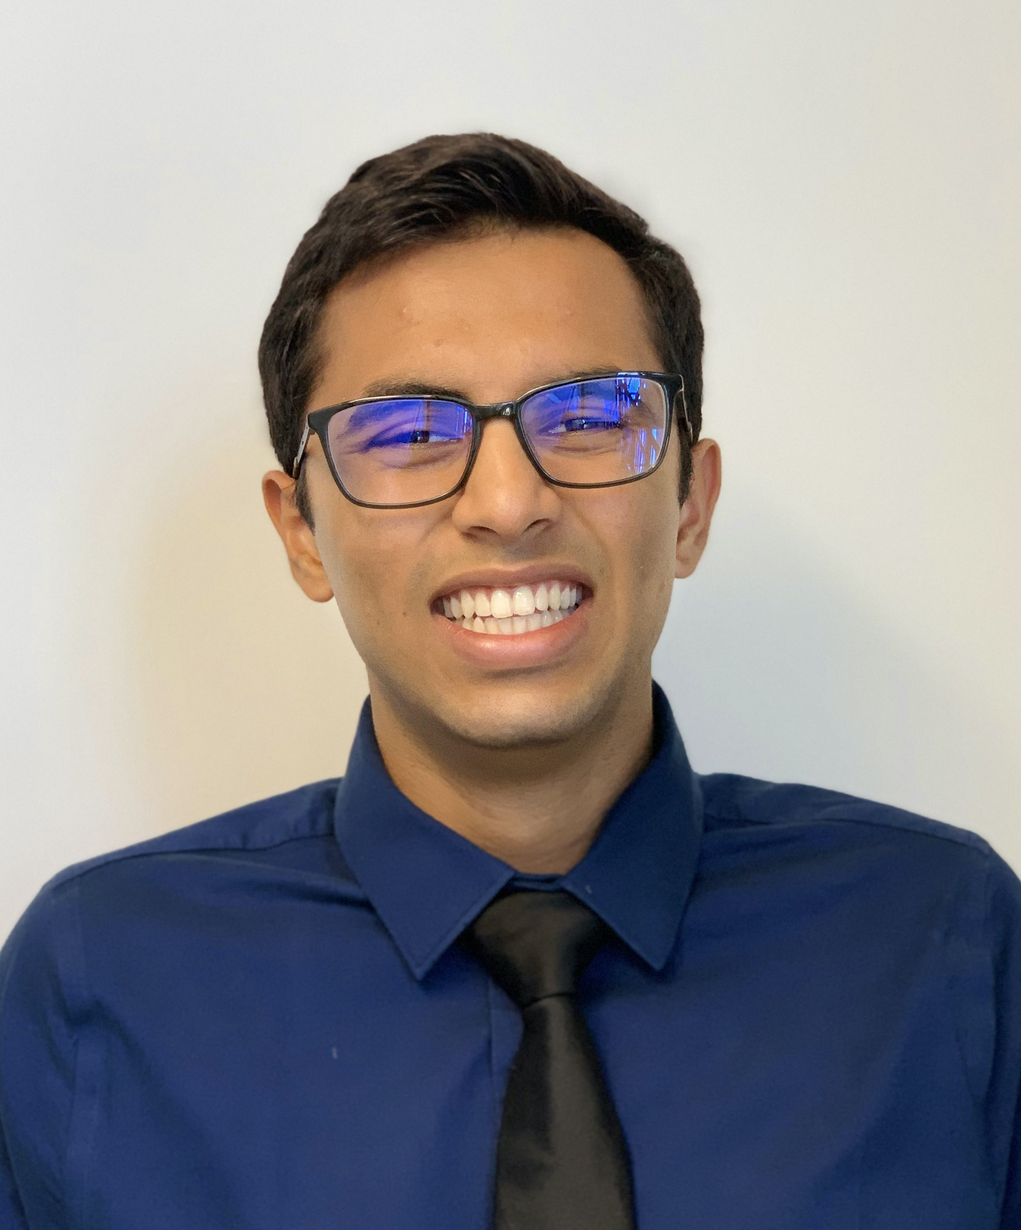
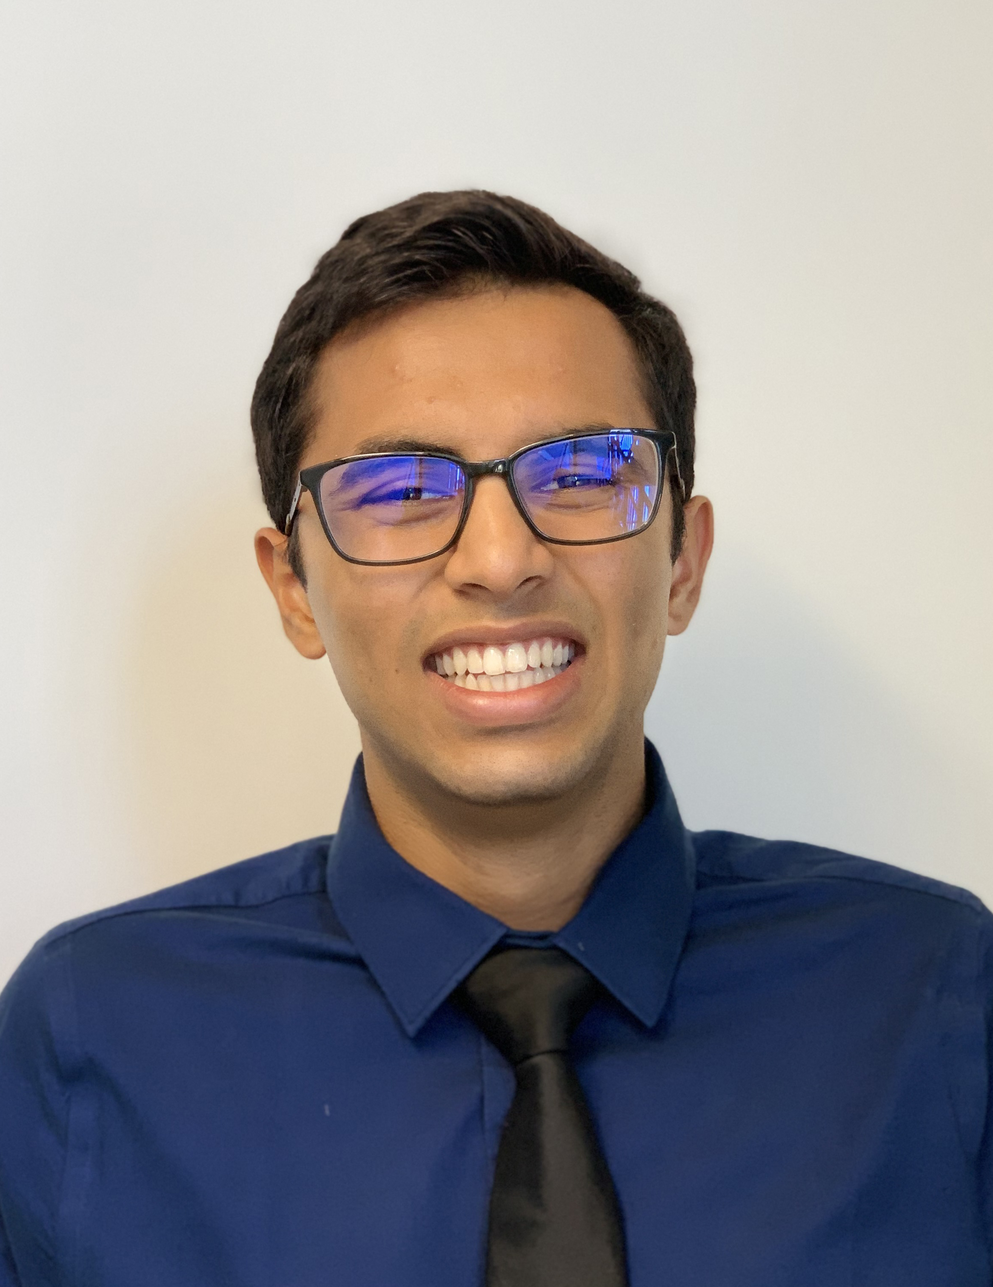
update leadership profiles, update apply page, minor edits to text

diff --git a/about.html b/about.html
@@ -149,131 +149,198 @@
                             <span>Leadership</span>
                             <!-- Row One-->
                             <div class="row justify-content-around mb-15">
-                                <div class="col-xl-3 col-lg-5 col-md-6 col-sm-6 item">
+                                <div class="col-xl-3 col-lg-5 col-md-6 col-sm-6">
                                     <div class="section-tittle container">
-                                        <img src="assets/img/profiles/aadhrik.JPG" style="width: 100%" class="section-tittle image" alt="Avatar">
+                                        <img src="assets/img/profiles/vignesh.jpg" style="width: 100%" class="section-tittle image" alt="Avatar">
                                         <div class="section-tittle middle">
-                                            <a href="https://www.linkedin.com/in/aadhrik/" target="blank">
-                                            <img src="assets/img/icon/linkedin_icon.png" alt="">
-                                            </a>
+                                            <div class="container-fluid">
+                                                <a href="https://www.linkedin.com/in/vsivapra/" target="blank">
+                                                    <img src="assets/img/icon/linkedin_icon.png" alt="">
+                                                </a>
+                                                <a href="mailto: vignesh@product.berkeley.edu">
+                                                    <img src="assets/img/icon/mail.png" alt="">
+                                                </a>
+                                            </div>
                                         </div>
                                     </div>
-                                    <h4>Aadhrik Kuila</h4>
-                                    <p>President</p>
+                                    <h4>Vignesh Siva</h4>
+                                    <p>Project Manager</p>
                                 </div>
                                 <div class="col-xl-3 col-lg-5 col-md-6 col-sm-6">
                                     <div class="section-tittle container">
-                                        <img src="assets/img/profiles/brandon.jpg" style="width: 100%" class="section-tittle image" alt="Avatar">
+                                        <img src="assets/img/profiles/kayden.jpg" style="width: 100%" class="section-tittle image" alt="Avatar">
                                         <div class="section-tittle middle">
-                                            <a href="https://www.linkedin.com/in/brandonqin/" target="blank">
-                                                <img src="assets/img/icon/linkedin_icon.png" alt="">
-                                            </a>
+                                            <div class="container-fluid">
+                                                <a href="https://www.linkedin.com/in/kayden-fu-0712/" target="blank">
+                                                    <img src="assets/img/icon/linkedin_icon.png" alt="">
+                                                </a>
+                                                <a href="mailto: kayden@product.berkeley.edu">
+                                                    <img src="assets/img/icon/mail.png" alt="">
+                                                </a>
+                                            </div>
                                         </div>
                                     </div>
-                                    <h4>Brandon Qin</h4>
-                                    <p>External Vice President</p>
+                                    <h4>Kayden Fu</h4>
+                                    <p>Fellowship Lead</p>
                                 </div>
                                 <div class="col-xl-3 col-lg-5 col-md-6 col-sm-6">
                                     <div class="section-tittle container">
-                                        <img src="assets/img/profiles/ananya.JPG" style="width: 100%" class="section-tittle image" alt="Avatar">
+                                        <img src="assets/img/profiles/sahil.png" style="width: 100%" class="section-tittle image" alt="Avatar">
                                         <div class="section-tittle middle">
-                                            <a href="http://linkedin.com/in/ananyagupta01" target="blank">
-                                                <img src="assets/img/icon/linkedin_icon.png" alt="">
-                                            </a>
+                                            <div class="container-fluid">
+                                                <a href="https://www.linkedin.com/in/sahil-mehta-412783190/" target="blank">
+                                                    <img src="assets/img/icon/linkedin_icon.png" alt="">
+                                                </a>
+                                                <a href="mailto: sahilmehta@product.berkeley.edu">
+                                                    <img src="assets/img/icon/mail.png" alt="">
+                                                </a>
+                                            </div>
                                         </div>
                                     </div>
-                                    <h4>Ananya Gupta</h4>
-                                    <p>Internal Vice President</p>
+                                    <h4>Sahil Mehta</h4>
+                                    <p>Vice President of Operations</p>
                                 </div>
                                 <div class="col-xl-3 col-lg-5 col-md-6 col-sm-6">
                                     <div class="section-tittle container">
-                                        <img src="assets/img/profiles/tyler.JPG" style="width: 100%" class="section-tittle image" alt="Avatar">
+                                        <img src="assets/img/profiles/katherine.jpg" style="width: 100%" class="section-tittle image" alt="Avatar">
                                         <div class="section-tittle middle">
-                                            <a href="https://www.linkedin.com/in/tyler-mcnierney/" target="blank">
-                                                <img src="assets/img/icon/linkedin_icon.png" alt="">
-                                            </a>
+                                            <div class="container-fluid">
+                                                <a href="https://www.linkedin.com/in/katherine-gan/" target="blank">
+                                                    <img src="assets/img/icon/linkedin_icon.png" alt="">
+                                                </a>
+                                                <a href="mailto: katherine@product.berkeley.edu">
+                                                    <img src="assets/img/icon/mail.png" alt="">
+                                                </a>
+                                            </div>
                                         </div>
                                     </div>
-                                    <h4>Tyler McNierney</h4>
-                                    <p>Head of Growth</p>
+                                    <h4>Katherine Gan</h4>
+                                    <p>Fellowship Mentor</p>
                                 </div>
                             </div>
                             <!-- Row Two-->
                             <div class="row justify-content-around mb-15">
                                 <div class="col-xl-3 col-lg-5 col-md-6 col-sm-6">
                                     <div class="section-tittle container">
-                                        <img src="assets/img/profiles/atharva.jpg" style="width: 100%" class="section-tittle image" alt="Avatar">
+                                        <img src="assets/img/profiles/trinity.jpg" style="width: 100%" class="section-tittle image" alt="Avatar">
                                         <div class="section-tittle middle">
-                                            <a href="https://www.linkedin.com/in/atharvamehendale/" target="blank">
-                                                <img src="assets/img/icon/linkedin_icon.png" alt="">
-                                            </a>
+                                            <div class="container-fluid">
+                                                <a href="https://www.linkedin.com/in/trinityhuynh/" target="blank">
+                                                    <img src="assets/img/icon/linkedin_icon.png" alt="">
+                                                </a>
+                                                <a href="mailto: trinity@product.berkeley.edu">
+                                                    <img src="assets/img/icon/mail.png" alt="">
+                                                </a>
+                                            </div>
                                         </div>
                                     </div>
-                                    <h4>Atharva Mehendale</h4>
-                                    <p>Head of Projects</p>
+                                    <h4>Trinity Huynh</h4>
+                                    <p>Fellowship Mentor</p>
+                                </div>
+                                <div class="col-xl-3 col-lg-5 col-md-6 col-sm-6">
+                                    <div class="section-tittle container">
+                                        <img src="assets/img/profiles/advait.jpg" style="width: 100%" class="section-tittle image" alt="Avatar">
+                                        <div class="section-tittle middle">
+                                            <div class="container-fluid">
+                                                <a href="https://www.linkedin.com/in/advaitumarathe/" target="blank">
+                                                    <img src="assets/img/icon/linkedin_icon.png" alt="">
+                                                </a>
+                                                <a href="mailto: advait@product.berkeley.edu">
+                                                    <img src="assets/img/icon/mail.png" alt="">
+                                                </a>
+                                            </div>
+                                        </div>
+                                    </div>
+                                    <h4>Advait Marathe</h4>
+                                    <p>External Vice President</p>
+                                </div>
+                                <div class="col-xl-3 col-lg-5 col-md-6 col-sm-6">
+                                    <div class="section-tittle container">
+                                        <img src="assets/img/profiles/tia.jpg" style="width: 100%" class="section-tittle image" alt="Avatar">
+                                        <div class="section-tittle middle">
+                                            <div class="container-fluid">
+                                                <a href="https://www.linkedin.com/in/tiatyngchang/" target="blank">
+                                                    <img src="assets/img/icon/linkedin_icon.png" alt="">
+                                                </a>
+                                                <a href="mailto: tia@product.berkeley.edu">
+                                                    <img src="assets/img/icon/mail.png" alt="">
+                                                </a>
+                                            </div>
+                                        </div>
+                                    </div>
+                                    <h4>Tia Chang</h4>
+                                    <p>Project Manager</p>
+                                </div>
+                                <div class="col-xl-3 col-lg-5 col-md-6 col-sm-6">
+                                    <div class="section-tittle container">
+                                        <img src="assets/img/profiles/neal.jpg" style="width: 100%" class="section-tittle image" alt="Avatar">
+                                        <div class="section-tittle middle">
+                                            <div class="container-fluid">
+                                                <a href="https://www.linkedin.com/in/neal-kothari/" target="blank">
+                                                    <img src="assets/img/icon/linkedin_icon.png" alt="">
+                                                </a>
+                                                <a href="mailto: neal@product.berkeley.edu">
+                                                    <img src="assets/img/icon/mail.png" alt="">
+                                                </a>
+                                            </div>
+                                        </div>
+                                    </div>
+                                    <h4>Neal Kothari</h4>
+                                    <p>Fellowship Mentor</p>
+                                </div>
+                            </div>
+                            <!--Row Three-->
+                            <div class="row justify-content-center mb-15">
+                                <div class="col-xl-3 col-lg-5 col-md-6 col-sm-6">
+                                    <div class="section-tittle container">
+                                        <img src="assets/img/profiles/tyler.jpg" style="width: 100%" class="section-tittle image" alt="Avatar">
+                                        <div class="section-tittle middle">
+                                            <div class="container-fluid">
+                                                <a href="https://www.linkedin.com/in/tyler-mcnierney/" target="blank">
+                                                    <img src="assets/img/icon/linkedin_icon.png" alt="">
+                                                </a>
+                                                <a href="mailto: tyler@product.berkeley.edu">
+                                                    <img src="assets/img/icon/mail.png" alt="">
+                                                </a>
+                                            </div>
+                                        </div>
+                                    </div>
+                                    <h4>Tyler McNierney</h4>
+                                    <p>President</p>
                                 </div>
                                 <div class="col-xl-3 col-lg-5 col-md-6 col-sm-6">
                                     <div class="section-tittle container">
                                         <img src="assets/img/profiles/momo.jpg" style="width: 100%" class="section-tittle image" alt="Avatar">
                                         <div class="section-tittle middle">
-                                            <a href="https://www.linkedin.com/in/phoelandsiu/" target="blank">
-                                                <img src="assets/img/icon/linkedin_icon.png" alt="">
-                                            </a>
+                                            <div class="container-fluid">
+                                                <a href="https://linkedin.com/in/phoelandsiu" target="blank">
+                                                    <img src="assets/img/icon/linkedin_icon.png" alt="">
+                                                </a>
+                                                <a href="mailto: momo@product.berkeley.edu">
+                                                    <img src="assets/img/icon/mail.png" alt="">
+                                                </a>
+                                            </div>
                                         </div>
                                     </div>
                                     <h4>Momo Siu</h4>
-                                    <p>Project Manager</p>
+                                    <p>Head of Projects</p>
                                 </div>
                                 <div class="col-xl-3 col-lg-5 col-md-6 col-sm-6">
                                     <div class="section-tittle container">
-                                        <img src="assets/img/profiles/nanki.jpeg" style="width: 100%" class="section-tittle image" alt="Avatar">
+                                        <img src="assets/img/profiles/arnav.jpg" style="width: 100%" class="section-tittle image" alt="Avatar">
                                         <div class="section-tittle middle">
-                                            <a href="https://www.linkedin.com/in/nankiahuja/" target="blank">
-                                                <img src="assets/img/icon/linkedin_icon.png" alt="">
-                                            </a>
-                                        </div>
-                                    </div>
-                                    <h4>Nanki Ahuja</h4>
-                                    <p>Project Manager</p>
-                                </div>
-                                <div class="col-xl-3 col-lg-5 col-md-6 col-sm-6">
-                                    <div class="section-tittle container">
-                                        <img src="assets/img/profiles/arnav.jpeg" style="width: 100%" class="section-tittle image" alt="Avatar">
-                                        <div class="section-tittle middle">
-                                            <a href="https://www.linkedin.com/in/g-arnav/" target="blank">
-                                                <img src="assets/img/icon/linkedin_icon.png" alt="">
-                                            </a>
+                                            <div class="container-fluid">
+                                                <a href="https://www.linkedin.com/in/g-arnav/" target="blank">
+                                                    <img src="assets/img/icon/linkedin_icon.png" alt="">
+                                                </a>
+                                                <a href="mailto: arnav@product.berkeley.edu">
+                                                    <img src="assets/img/icon/mail.png" alt="">
+                                                </a>
+                                            </div>
                                         </div>
                                     </div>
                                     <h4>Arnav Gupta</h4>
-                                    <p>Project Manager</p>
-                                </div>
-                            </div>
-                            <!--Row Three-->
-                            <div class="row justify-content-center mb-15">
-                                <div class="col-xl-3 col-lg-5 col-md-6 col-sm-6 item">
-                                    <div class="section-tittle container">
-                                        <img src="assets/img/profiles/kayli.jpg" style="width: 100%" class="section-tittle image" alt="Avatar">
-                                        <div class="section-tittle middle">
-                                            <a href="https://www.linkedin.com/in/kaylijiang/" target="blank">
-                                            <img src="assets/img/icon/linkedin_icon.png" alt="">
-                                            </a>
-                                        </div>
-                                    </div>
-                                    <h4>Kayli Jiang</h4>
-                                    <p>Project Manager</p>
-                                </div>
-                                <div class="col-xl-3 col-lg-5 col-md-6 col-sm-6 item">
-                                    <div class="section-tittle container">
-                                        <img src="assets/img/profiles/advait.jpg" style="width: 100%" class="section-tittle image" alt="Avatar">
-                                        <div class="section-tittle middle">
-                                            <a href="https://www.linkedin.com/in/advaitumarathe/" target="blank">
-                                            <img src="assets/img/icon/linkedin_icon.png" alt="">
-                                            </a>
-                                        </div>
-                                    </div>
-                                    <h4>Advait Marathe</h4>
-                                    <p>Fellowship Lead</p>
+                                    <p>Internal Vice President</p>
                                 </div>
                             </div>
                         </div>

diff --git a/apply.html b/apply.html
@@ -76,7 +76,7 @@
                             <div class="hero-caption">
                                 <h1>Apply</h1>
                                 <p>Product Space welcomes anyone with a passion for PM to apply. Join us and shape your product journey.</p>
-                                <h5><i>Applications for Fall 2021 are closed.</i></h5>
+                                <h5><i>Spring 2022 applications will open on January 18.</i></h5>
                             </div>
                         </div>
                     </div>
@@ -85,7 +85,7 @@
         </div>
         <!-- Slider Area End -->
         <!-- Timeline Area Start-->
-        <div class="container mb-60">
+        <!-- <div class="container mb-60">
             <div class="row">
                 <div class="col-xl-12 col-lg-12 col-md-12">
                     <div class="card" style="border: none;">
@@ -124,7 +124,7 @@
                     </div>
                 </div>
             </div>
-        </div>
+        </div> -->
         <!-- Timeline Area End-->
         <!-- FAQ Area Start -->
         <section class="categories-area bottom-padding position-relative">
@@ -141,15 +141,11 @@
                         </div>
                         <div class="section-tittle text-first mb-45">
                             <h4>What is the expected time commitment as a new member?</h4>
-                            <p>We ask for about 4 to 8 hours of your time each week as a member of the fellowship program or a client associate. Beyond that, we’d love to see you at our socials, workshops, and other events!</p>
+                            <p>We ask for about 6 to 8 hours of your time each week as a member of the fellowship program or a client associate. Beyond that, we’d love to see you at our socials, workshops, and other events!</p>
                         </div>
                         <div class="section-tittle text-first mb-45">
                             <h4>How should I decide between applying for the fellowship and client projects?</h4>
                             <p>We highly recommend the fellowship program for those who have just started developing an interest in product management. Client projects are intended for people who have had a PM internship or an equivalent experience. The interview process for each program is structured accordingly.</p>
-                        </div>
-                        <div class="section-tittle text-first mb-45">
-                            <h4>How does Product Space plan to operate in the fall semester?</h4>
-                            <p>We intend to host most meetings and socials in-person, ensuring that all participants have been completely vaccinated. Most recruitment activities will also likely be held in-person so long that we have campus permission.</p>
                         </div>
                     </div>
                 </div>

diff --git a/students.html b/students.html
@@ -97,7 +97,7 @@
                                 <div class="col-xxl-5 col-xl-6 col-lg-6 col-md-8">
                                     <!-- about-img -->
                                     <div class="about-img about-img1">
-                                        <img src="assets/img/photoshoot/fellowship1.jpg" alt="">
+                                        <img src="assets/img/profiles/fellowship1.jpg" alt="">
                                     </div>
                                 </div>
                                 <div class="offset-xxl-1 col-xxl-6 col-xl-6 col-lg-6 col-md-9">
@@ -125,7 +125,7 @@
                                     <div class="offset-xxl-1 col-xxl-5 col-xl-6 col-lg-6 col-md-8">
                                         <!-- about-img -->
                                         <div class="about-img about-img1">
-                                            <img src="assets/img/photoshoot/atcompany1.jpg" alt="">
+                                            <img src="assets/img/profiles/atcompany1.jpg" alt="">
                                         </div>
                                     </div>
                                 </div>

diff --git a/index.html b/index.html
@@ -81,7 +81,7 @@
                         </div>
                         <div class="offset-xl-2 col-lg-5 col-md-6 position-relative">
                             <div class="video-icon" >
-                                <a class="popup-video btn-icon" href="https://www.youtube.com/watch?v=YprBgX8CXH8">
+                                <a class="popup-video btn-icon" href="https://www.youtube.com/watch?v=R59VcTF-Hjg">
                                     <i class="fas fa-play"></i>
                                 </a>
                             </div>
@@ -139,7 +139,7 @@
                                     <!-- Counter Up -->
                                     <div class="single mb-30">
                                         <div class="single-counter">
-                                            <span class="counter ">4</span>
+                                            <span class="counter ">5</span>
                                         </div>
                                         <div class="pera-count justify-content-center">
                                             <p>Semesters of growth</p>
